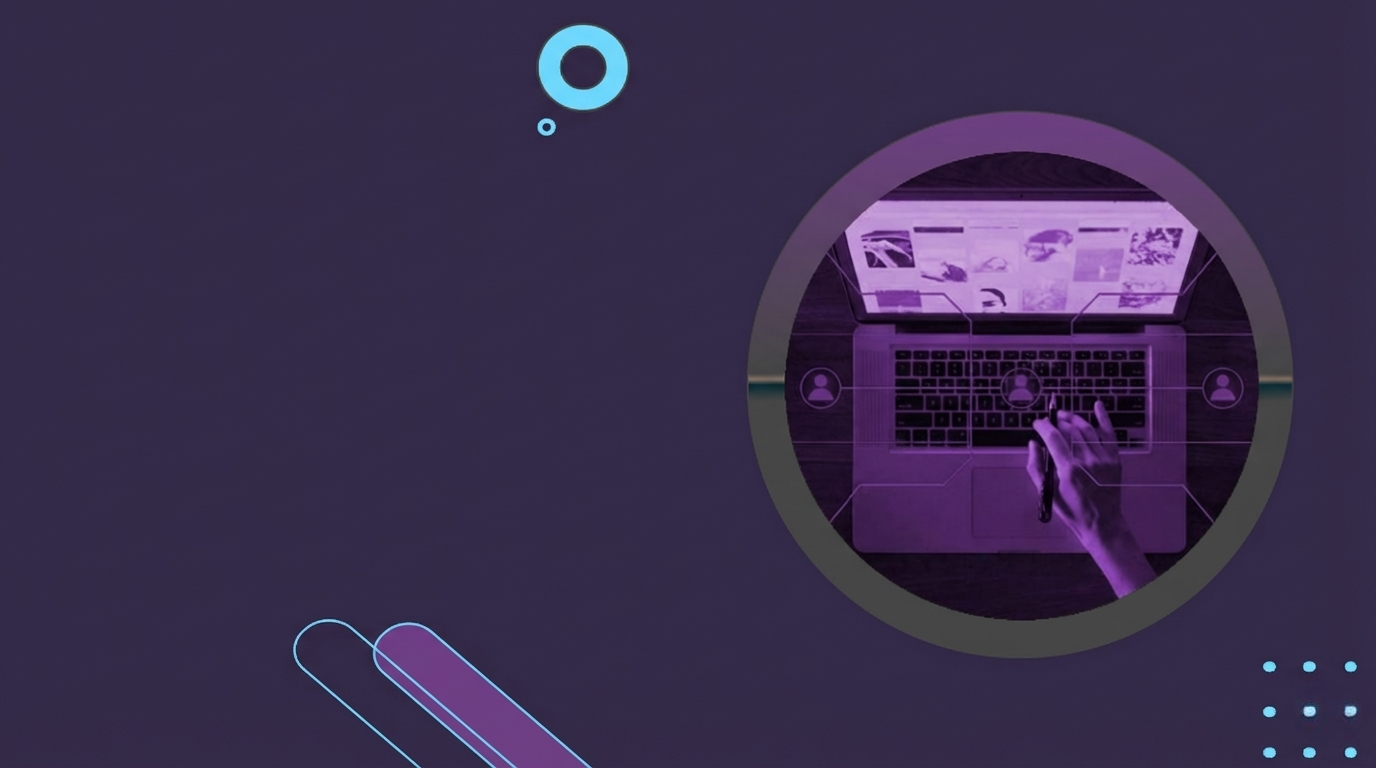
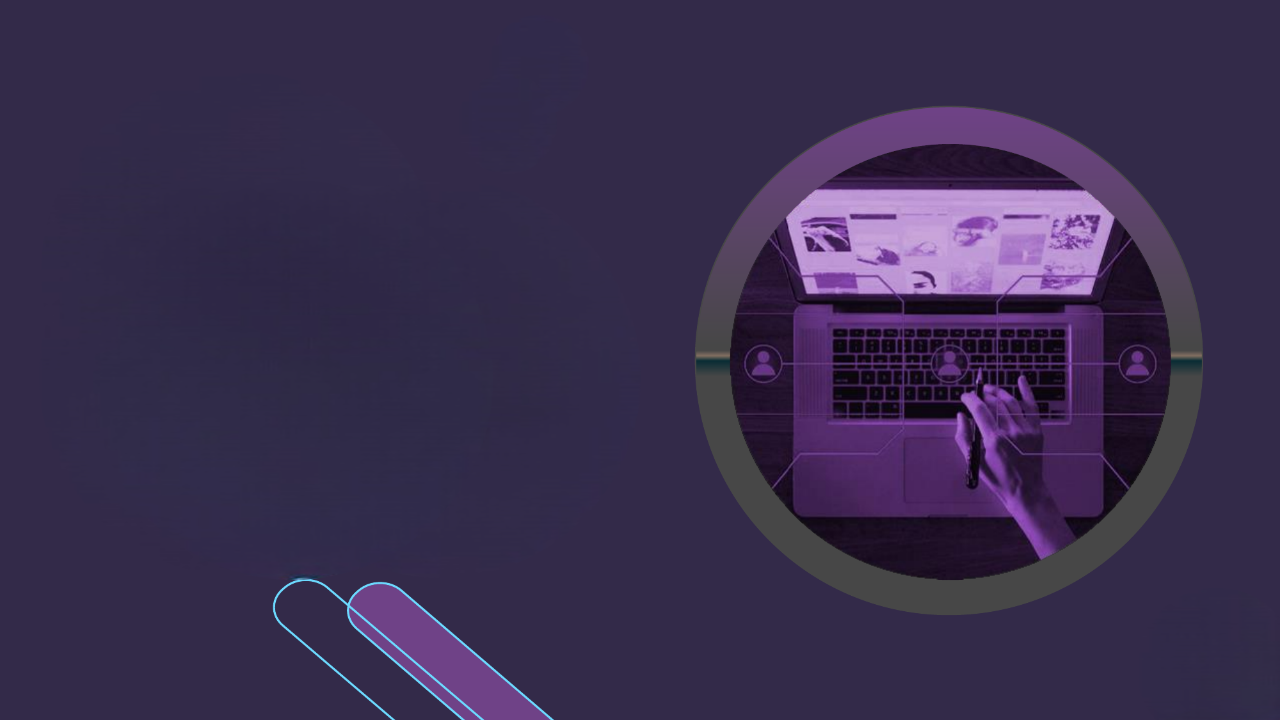
remove the circles and vision images

diff --git a/pages/team.html b/pages/team.html
@@ -107,28 +107,78 @@
             
             <div style="display: grid; grid-template-columns: repeat(auto-fit, minmax(250px, 1fr)); gap: 2rem;">
                 <div style="padding: 2rem; background: linear-gradient(135deg, var(--mohtawa-light), white); border: 1px solid var(--border); border-radius: var(--radius-xl);">
-                    <h3 style="color: var(--mohtawa-dark-purple); margin-bottom: 1rem;">Innovation</h3>
-                    <p style="color: var(--muted-foreground); margin-bottom: 0;">We constantly push creative boundaries and embrace new technologies to deliver cutting-edge solutions.</p>
+                    <div style="display:flex; gap:1rem; align-items:flex-start;">
+                        <svg viewBox="0 0 24 24" width="40" height="40" style="color:var(--mohtawa-dark-purple); flex-shrink:0;" fill="none" stroke="currentColor" stroke-width="1.6" stroke-linecap="round" stroke-linejoin="round" aria-hidden="true">
+                            <path d="M9 18h6" />
+                            <path d="M10 22h4" />
+                            <path d="M12 2a6 6 0 0 0-4 10c0 2 1 3 1 3h6s1-1 1-3a6 6 0 0 0-4-10z" />
+                        </svg>
+                        <div>
+                            <h3 style="color: var(--mohtawa-dark-purple); margin-bottom: 1rem;">Innovation</h3>
+                            <p style="color: var(--muted-foreground); margin-bottom: 0;">We constantly push creative boundaries and embrace new technologies to deliver cutting-edge solutions.</p>
+                        </div>
+                    </div>
                 </div>
                 <div style="padding: 2rem; background: linear-gradient(135deg, var(--mohtawa-light), white); border: 1px solid var(--border); border-radius: var(--radius-xl);">
-                    <h3 style="color: var(--mohtawa-dark-purple); margin-bottom: 1rem;">Collaboration</h3>
-                    <p style="color: var(--muted-foreground); margin-bottom: 0;">We work together as a team and with our clients to achieve shared goals and exceptional results.</p>
+                    <div style="display:flex; gap:1rem; align-items:flex-start;">
+                        <svg viewBox="0 0 24 24" width="40" height="40" style="color:var(--mohtawa-dark-purple); flex-shrink:0;" fill="none" stroke="currentColor" stroke-width="1.6" stroke-linecap="round" stroke-linejoin="round" aria-hidden="true">
+                            <path d="M16 11c1.657 0 3-1.343 3-3s-1.343-3-3-3-3 1.343-3 3" />
+                            <path d="M8 13c-1.657 0-3 1.343-3 3s1.343 3 3 3 3-1.343 3-3" />
+                            <path d="M8 14l8-4" />
+                            <path d="M8 10l8 4" />
+                        </svg>
+                        <div>
+                            <h3 style="color: var(--mohtawa-dark-purple); margin-bottom: 1rem;">Collaboration</h3>
+                            <p style="color: var(--muted-foreground); margin-bottom: 0;">We work together as a team and with our clients to achieve shared goals and exceptional results.</p>
+                        </div>
+                    </div>
                 </div>
                 <div style="padding: 2rem; background: linear-gradient(135deg, var(--mohtawa-light), white); border: 1px solid var(--border); border-radius: var(--radius-xl);">
-                    <h3 style="color: var(--mohtawa-dark-purple); margin-bottom: 1rem;">Excellence</h3>
-                    <p style="color: var(--muted-foreground); margin-bottom: 0;">We maintain the highest standards in everything we do, from strategy to execution to delivery.</p>
+                    <div style="display:flex; gap:1rem; align-items:flex-start;">
+                        <svg viewBox="0 0 24 24" width="40" height="40" style="color:var(--mohtawa-dark-purple); flex-shrink:0;" fill="none" stroke="currentColor" stroke-width="1.6" stroke-linecap="round" stroke-linejoin="round" aria-hidden="true">
+                            <path d="M12 2l2 5h5l-4 3 2 5-5-3-5 3 2-5-4-3h5z" />
+                        </svg>
+                        <div>
+                            <h3 style="color: var(--mohtawa-dark-purple); margin-bottom: 1rem;">Excellence</h3>
+                            <p style="color: var(--muted-foreground); margin-bottom: 0;">We maintain the highest standards in everything we do, from strategy to execution to delivery.</p>
+                        </div>
+                    </div>
                 </div>
                 <div style="padding: 2rem; background: linear-gradient(135deg, var(--mohtawa-light), white); border: 1px solid var(--border); border-radius: var(--radius-xl);">
-                    <h3 style="color: var(--mohtawa-dark-purple); margin-bottom: 1rem;">Integrity</h3>
-                    <p style="color: var(--muted-foreground); margin-bottom: 0;">We build trust through transparency, honesty, and ethical business practices in all our relationships.</p>
+                    <div style="display:flex; gap:1rem; align-items:flex-start;">
+                        <svg viewBox="0 0 24 24" width="40" height="40" style="color:var(--mohtawa-dark-purple); flex-shrink:0;" fill="none" stroke="currentColor" stroke-width="1.6" stroke-linecap="round" stroke-linejoin="round" aria-hidden="true">
+                            <path d="M12 2v7" />
+                            <path d="M5 11l7 7 7-7" />
+                        </svg>
+                        <div>
+                            <h3 style="color: var(--mohtawa-dark-purple); margin-bottom: 1rem;">Integrity</h3>
+                            <p style="color: var(--muted-foreground); margin-bottom: 0;">We build trust through transparency, honesty, and ethical business practices in all our relationships.</p>
+                        </div>
+                    </div>
                 </div>
                 <div style="padding: 2rem; background: linear-gradient(135deg, var(--mohtawa-light), white); border: 1px solid var(--border); border-radius: var(--radius-xl);">
-                    <h3 style="color: var(--mohtawa-dark-purple); margin-bottom: 1rem;">Results-Driven</h3>
-                    <p style="color: var(--muted-foreground); margin-bottom: 0;">We focus on measurable outcomes and continuous optimization to maximize client success.</p>
+                    <div style="display:flex; gap:1rem; align-items:flex-start;">
+                        <svg viewBox="0 0 24 24" width="40" height="40" style="color:var(--mohtawa-dark-purple); flex-shrink:0;" fill="none" stroke="currentColor" stroke-width="1.6" stroke-linecap="round" stroke-linejoin="round" aria-hidden="true">
+                            <circle cx="12" cy="12" r="10" />
+                            <path d="M12 8v4l2 2" />
+                        </svg>
+                        <div>
+                            <h3 style="color: var(--mohtawa-dark-purple); margin-bottom: 1rem;">Results-Driven</h3>
+                            <p style="color: var(--muted-foreground); margin-bottom: 0;">We focus on measurable outcomes and continuous optimization to maximize client success.</p>
+                        </div>
+                    </div>
                 </div>
                 <div style="padding: 2rem; background: linear-gradient(135deg, var(--mohtawa-light), white); border: 1px solid var(--border); border-radius: var(--radius-xl);">
-                    <h3 style="color: var(--mohtawa-dark-purple); margin-bottom: 1rem;">Growth Mindset</h3>
-                    <p style="color: var(--muted-foreground); margin-bottom: 0;">We embrace learning, adapt to change, and continuously improve our skills and services.</p>
+                    <div style="display:flex; gap:1rem; align-items:flex-start;">
+                        <svg viewBox="0 0 24 24" width="40" height="40" style="color:var(--mohtawa-dark-purple); flex-shrink:0;" fill="none" stroke="currentColor" stroke-width="1.6" stroke-linecap="round" stroke-linejoin="round" aria-hidden="true">
+                            <path d="M3 17l6-6 4 4 8-8" />
+                            <path d="M7 13v6h6" />
+                        </svg>
+                        <div>
+                            <h3 style="color: var(--mohtawa-dark-purple); margin-bottom: 1rem;">Growth Mindset</h3>
+                            <p style="color: var(--muted-foreground); margin-bottom: 0;">We embrace learning, adapt to change, and continuously improve our skills and services.</p>
+                        </div>
+                    </div>
                 </div>
             </div>
         </div>

diff --git a/index.html b/index.html
@@ -122,10 +122,10 @@
       <p>To become KSA’s most trusted digital marketing partner, helping businesses thrive in the digital age.</p>
     </div>
 
-    <!-- Vision Image Circle -->
+    <!-- Vision Image Circle 
     <div class="mv-image-circle">
       <img src="images/vision.jpeg" alt="Vision Image">
-    </div>
+    </div>-->
 
     <!-- Mission Center -->
     <div class="mv-image-circle center-circle">
@@ -139,10 +139,10 @@
       </div>
     </div>
 
-    <!-- Goal Image Circle -->
+    <!-- Goal Image Circle 
     <div class="mv-image-circle">
       <img src="images/goal.jpeg" alt="Goal Image">
-    </div>
+    </div>-->
 
     <!-- Goal -->
     <div class="mv-item">

diff --git a/css/styles.css b/css/styles.css
@@ -218,7 +218,7 @@ nav {
 .hero {
   position: relative;
   overflow: hidden;
-  padding: 10rem 2rem 25rem;
+  padding: 10rem 2rem 10rem;
   background: url('../images/hero-bg.png') center center/cover no-repeat;
 }
 
@@ -467,7 +467,7 @@ section {
   flex-wrap: wrap;
   align-items: center;
   justify-content: center;
-  gap: 20px;
+  gap: 100px;
 }
 
 .mv-item {
